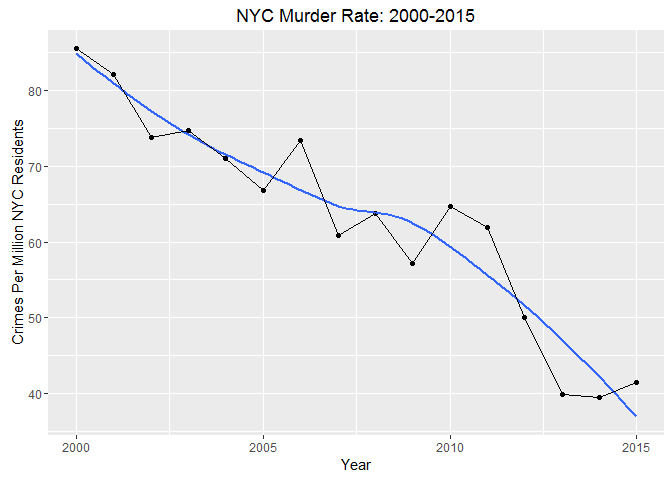
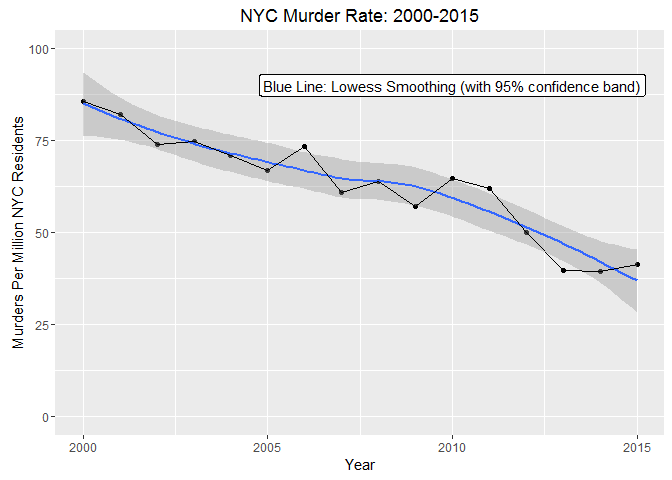
changed murder rate plot 2016-10-02

diff --git a/nyc_crime.md b/nyc_crime.md
@@ -1,7 +1,7 @@
 New York City Crime & Population Trends
 ================
 Brent Brewington (github.com/bbrewington)
-September 27, 2016
+October 2, 2016
 
 #### Read crime & population data into R:
 
@@ -111,21 +111,21 @@ nyc.population_violentcrime <- data.frame(year = 2000:2015) %>%
 
 ``` r
 ggplot(nyc.population_crime, aes(year, crime.rate_per.million, color = OFFENSE)) + geom_point() + geom_smooth(se = FALSE) + ggtitle("NYC Seven Major Felony Offenses by Year: 2000-2015") +
-     xlab("Year") + ylab("Crimes Per Million NYC Residents")
+     xlab("Year") + ylab("Seven Major Felonies Per Million NYC Residents")
 ```
 
 ![](nyc_crime_files/figure-markdown_github/plot_seven_major_felonies-1.png)
 
 ``` r
-ggplot(nyc.population_crime %>% filter(OFFENSE == "MURDER & NON-NEGL. MANSLAUGHTER"), aes(year, crime.rate_per.million)) + geom_point() + geom_smooth(se = FALSE) + geom_line() +
-     xlab("Year") + ylab("Crimes Per Million NYC Residents") + ggtitle("NYC Murder Rate: 2000-2015")
+ggplot(nyc.population_crime %>% filter(OFFENSE == "MURDER & NON-NEGL. MANSLAUGHTER"), aes(year, crime.rate_per.million)) + geom_point() + geom_smooth() + geom_line() +
+     xlab("Year") + ylab("Murders Per Million NYC Residents") + ggtitle("NYC Murder Rate: 2000-2015") + geom_label(aes(x = 2010, y = 90), label = "Blue Line: Lowess Smoothing (with 95% confidence band)") + scale_y_continuous(limits = c(0, 100))
 ```
 
 ![](nyc_crime_files/figure-markdown_github/plot_murder_rate-1.png)
 
 ``` r
 ggplot(nyc.population_violentcrime, aes(year, crime.rate_per.million)) + geom_bar(stat = "identity", aes(fill = "Total Violent Crime Rate")) + geom_smooth(data = nyc.population_crime %>% filter(OFFENSE %in% c("MURDER & NON-NEGL. MANSLAUGHTER", "RAPE", "ROBBERY", "FELONY ASSAULT")), aes(x = year, y = crime.rate_per.million, color = OFFENSE), se = FALSE) + geom_point(data = nyc.population_crime %>% filter(OFFENSE %in% c("MURDER & NON-NEGL. MANSLAUGHTER", "RAPE", "ROBBERY", "FELONY ASSAULT")), aes(x = year, y = crime.rate_per.million, color = OFFENSE)) + scale_fill_manual(values = "black", name = NULL) + scale_color_discrete(name = NULL) +
-     ggtitle("NYC Violent Crime Rate: 2000-2015") + ylab("Crimes per Million NYC Residents") + xlab("Year")
+     ggtitle("NYC Violent Crime Rate: 2000-2015") + ylab("Violent Crimes per Million NYC Residents") + xlab("Year")
 ```
 
 ![](nyc_crime_files/figure-markdown_github/plot_violent_crime-1.png)
